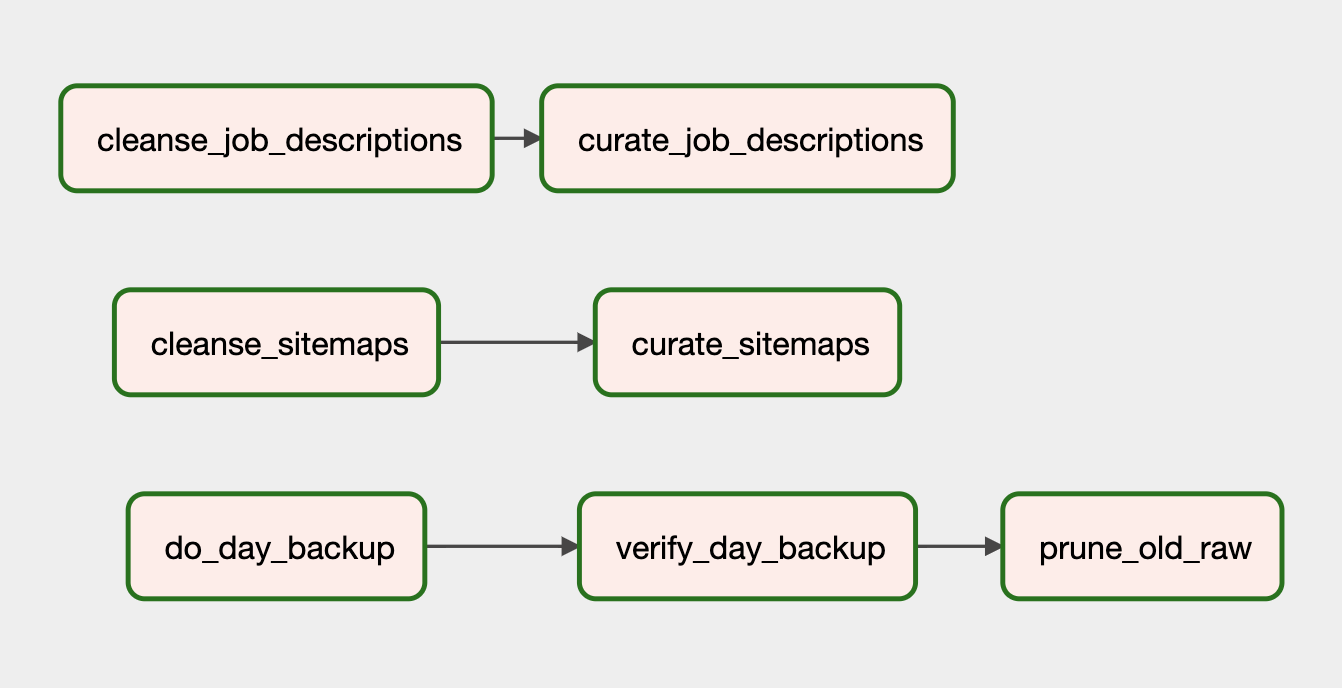
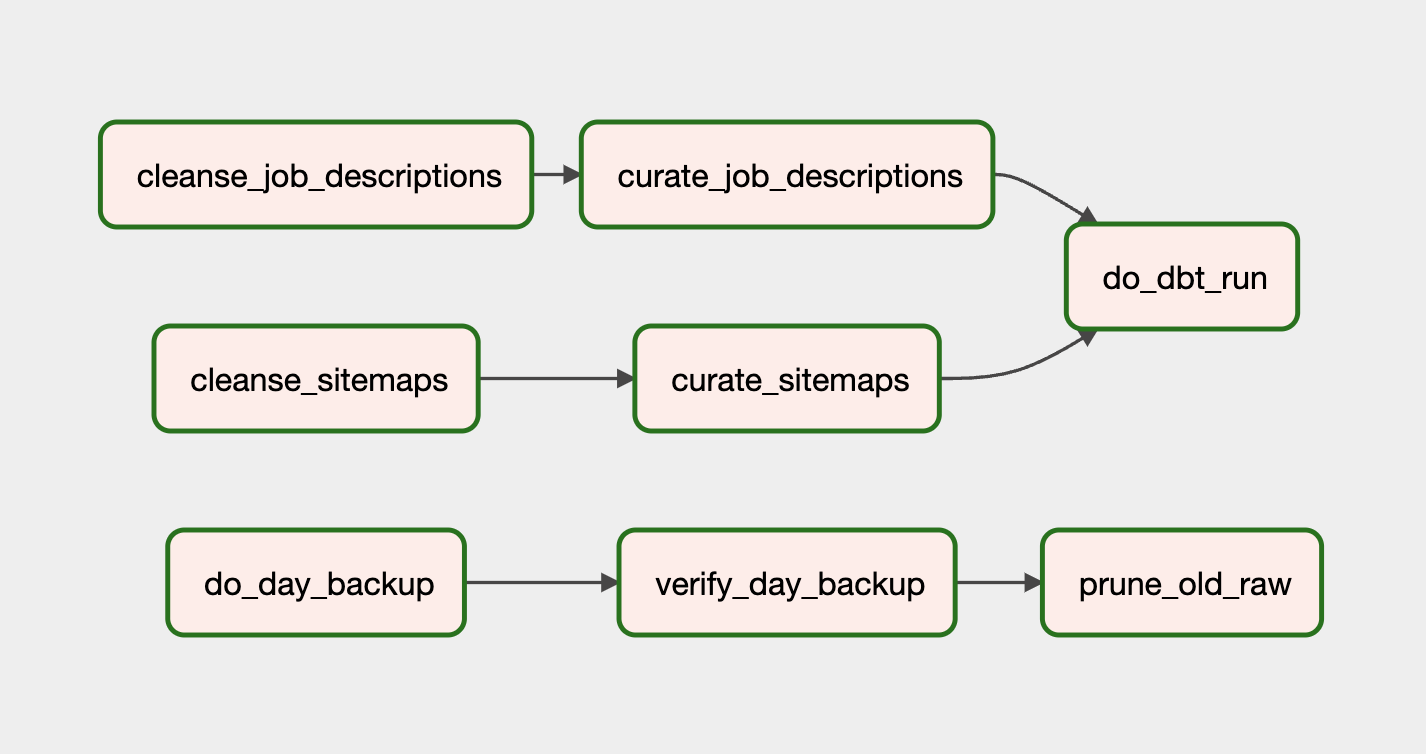
Add the task "dbt run" to the daily Airflow daily dag

Changed region(s): [[0.0306, 0.1221, 0.9165, 0.5799], [0.0917, 0.702, 0.9776, 0.8852]]

diff --git a/python/simplescraper/flasky.py b/python/simplescraper/flasky.py
@@ -56,6 +56,7 @@ def index():
            '<a href="/do/download_job_descriptions">Download Job Descriptions</a><br>' \
            '<a href="/do/cleanse_sitemaps">Cleanse Sitemap</a><br>' \
            '<a href="/do/cleanse_job_descriptions">Cleanse Job Descriptions</a><br>' \
+           '<a href="/do/do_dbt_run">Do dbt run</a><br>' \
            '<a href="/do/do_day_backup">Do Day Backup</a><br>' \
            '<a href="/do/validate_day_backup">Validate Day Backup</a><br>' \
            '<a href="/do/test">Test</a><br>'
@@ -167,6 +168,21 @@ def do_do_day_backup():
         params = RequestParams(request)
         year, month, day = params.load_date.split('/')
         result = subprocess.run([f'{SOURCE_DIR}/simplescraper/do_day_backup.sh', year, month, day])
+        if result.returncode == SUCCESS_RETURN_CODE:
+            return SUCCESS
+        else:
+            return {
+                       'result_status': 'error',
+                   }, 400
+    elif request.method == 'GET':
+        return HTML_FORM
+
+
+@app.route('/do/do_dbt_run', methods=['GET', 'POST'])
+def do_dbt_run():
+    if request.method == 'POST':
+        _ = RequestParams(request)
+        result = subprocess.run([f'{SOURCE_DIR}/simplescraper/do_dbt_run.sh'])
         if result.returncode == SUCCESS_RETURN_CODE:
             return SUCCESS
         else:

diff --git a/python/airflow_dags/job_market_analytics_daily_dag.py b/python/airflow_dags/job_market_analytics_daily_dag.py
@@ -32,6 +32,11 @@ with DAG('job_market_analytics_daily_dag',
         run_flasky_task('do/curate_job_descriptions')
 
 
+    @task(task_id="do_dbt_run")
+    def dbt_run():
+        run_flasky_task('do/do_dbt_run')
+
+
     @task(task_id="do_day_backup")
     def backup_day():
         run_flasky_task('do/do_day_backup')
@@ -47,7 +52,13 @@ with DAG('job_market_analytics_daily_dag',
         run_flasky_task('do/prune_old_raw')
 
 
-    cleanse_sitemaps() >> curate_sitemaps()
-    cleanse_job_descriptions() >> curate_job_descriptions()
+    t_curate_sitemaps = curate_sitemaps()
+    t_curate_job_descriptions = curate_job_descriptions()
+
+
+    cleanse_sitemaps() >> t_curate_sitemaps
+    cleanse_job_descriptions() >> t_curate_job_descriptions
+
+    [t_curate_sitemaps, t_curate_job_descriptions] >> dbt_run()
 
     backup_day() >> verify_day_backup() >> prune_old_raw()
